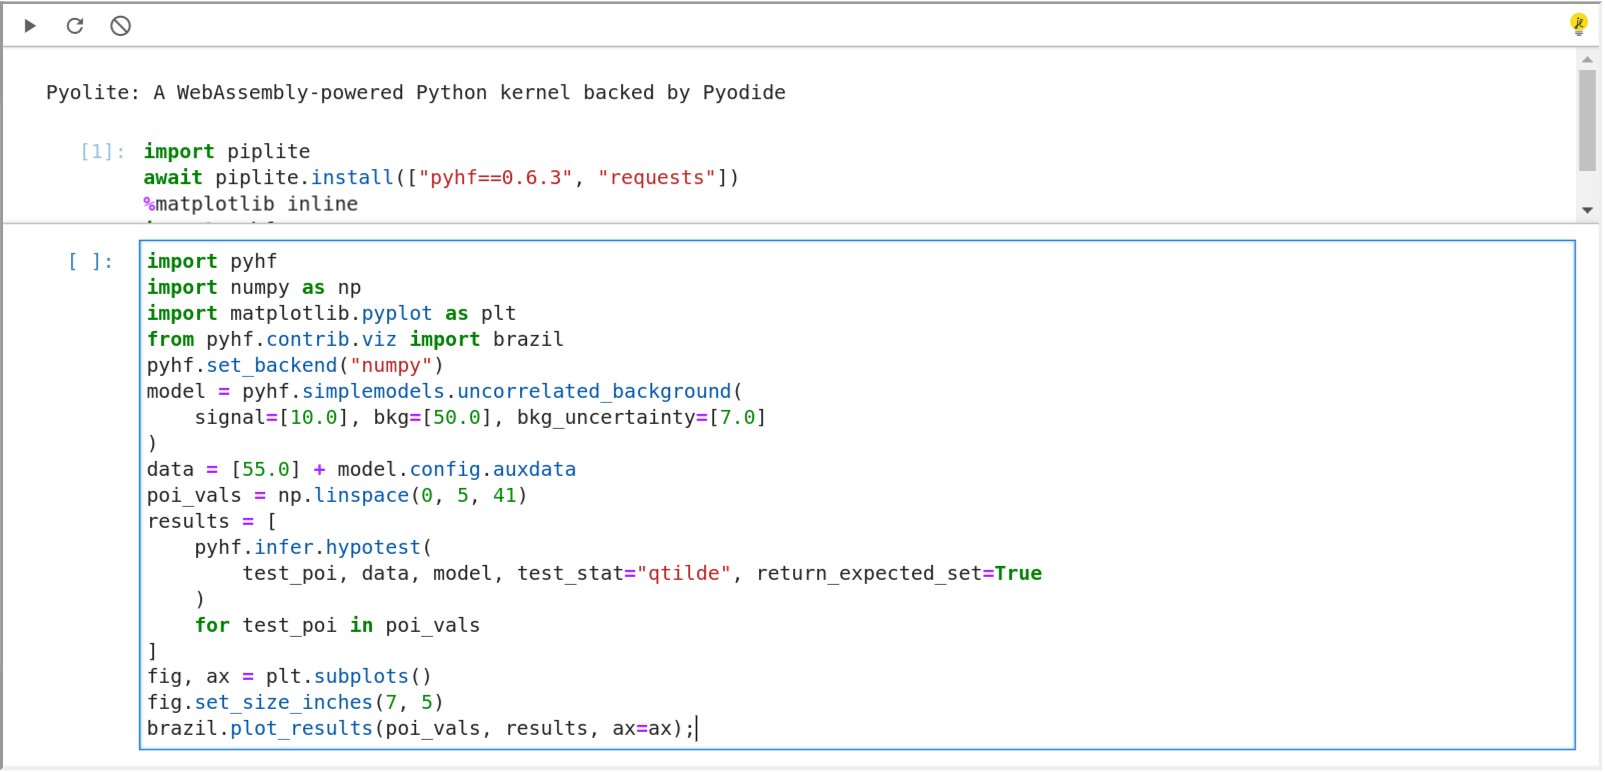
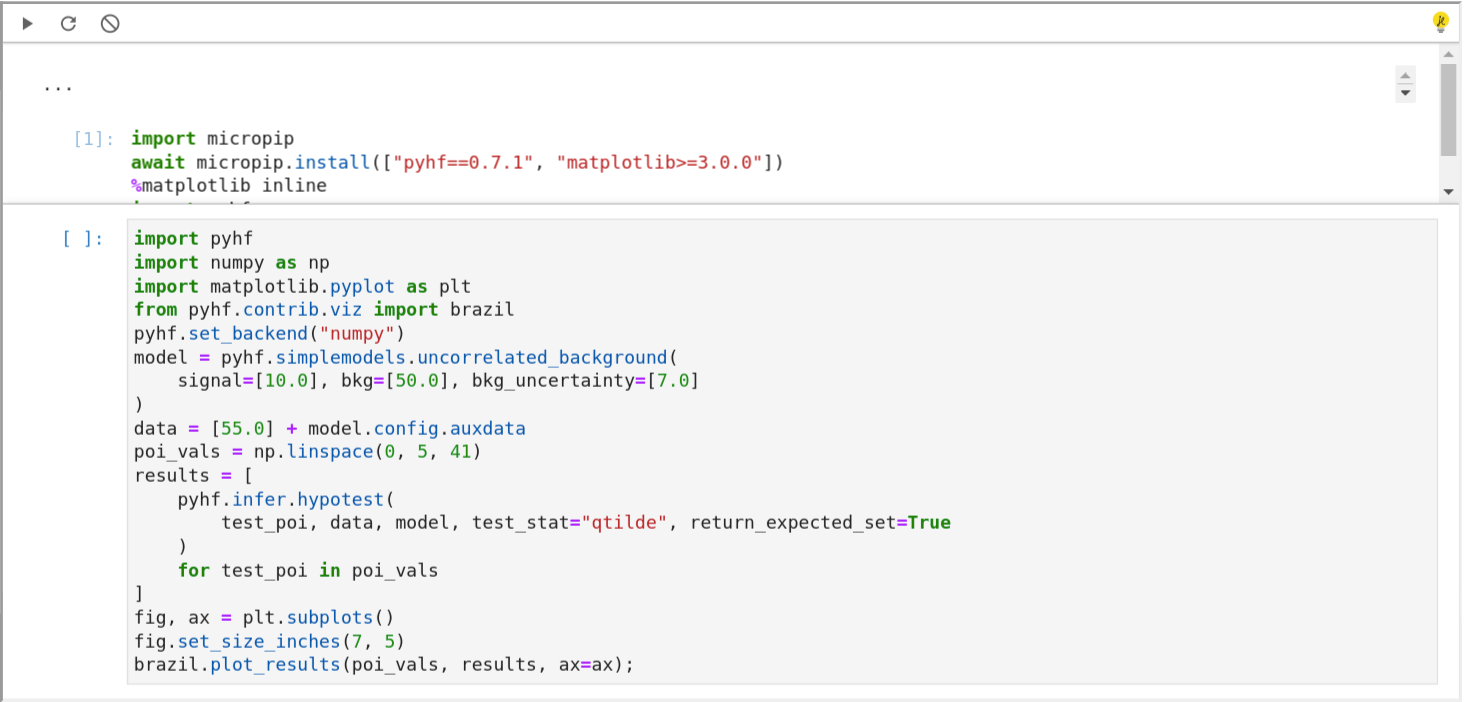
Update jupyterlite figures

diff --git a/generate_jupyterlite_iframe.py b/generate_jupyterlite_iframe.py
@@ -1,0 +1,30 @@
+import urllib.parse
+
+
+def main(code):
+    print(f"Python code:\n\n{code}\n")
+    parsed_url = urllib.parse.quote(code)
+    url_base = "https://jupyterlite.github.io/demo/repl/index.html"
+    jupyterlite_options = "?kernel=python&toolbar=1&code="
+    jupyterlite_url = url_base + jupyterlite_options + parsed_url
+
+    print(f"# jupyterlite URL:\n{jupyterlite_url}")
+
+    jupyterlite_iframe_rst = f"""\
+<iframe
+   src="{jupyterlite_url}"
+   width="100%"
+   height="500px"
+></iframe>\
+"""
+    print(f"\n# RST for iframe for jupyterlite.rst:\n{jupyterlite_iframe_rst}")
+
+
+if __name__ == "__main__":
+    code = """\
+import micropip
+await micropip.install(["pyhf==0.7.1", "matplotlib>=3.0.0"])
+%matplotlib inline
+import pyhf\
+"""
+    raise SystemExit(main(code))

diff --git a/talk.md b/talk.md
@@ -464,7 +464,7 @@ cabinetry.visualize.data_mc(postfit_model, data)
 
 .center.width-100[
 <iframe
-   src="https://jupyterlite.github.io/demo/repl/index.html?kernel=python&toolbar=1&code=import%20piplite%0Aawait%20piplite.install%28%5B%22pyhf%3D%3D0.7.1%22%2C%20%22matplotlib%22%5D%29%0A%25matplotlib%20inline%0Aimport%20pyhf"
+   src="https://jupyterlite.github.io/demo/repl/index.html?kernel=python&toolbar=1&code=import%20micropip%0Aawait%20micropip.install%28%5B%22pyhf%3D%3D0.7.1%22%2C%20%22matplotlib%3E%3D3.0.0%22%5D%29%0A%25matplotlib%20inline%0Aimport%20pyhf"
    width="100%"
    height="500px"
 ></iframe>
